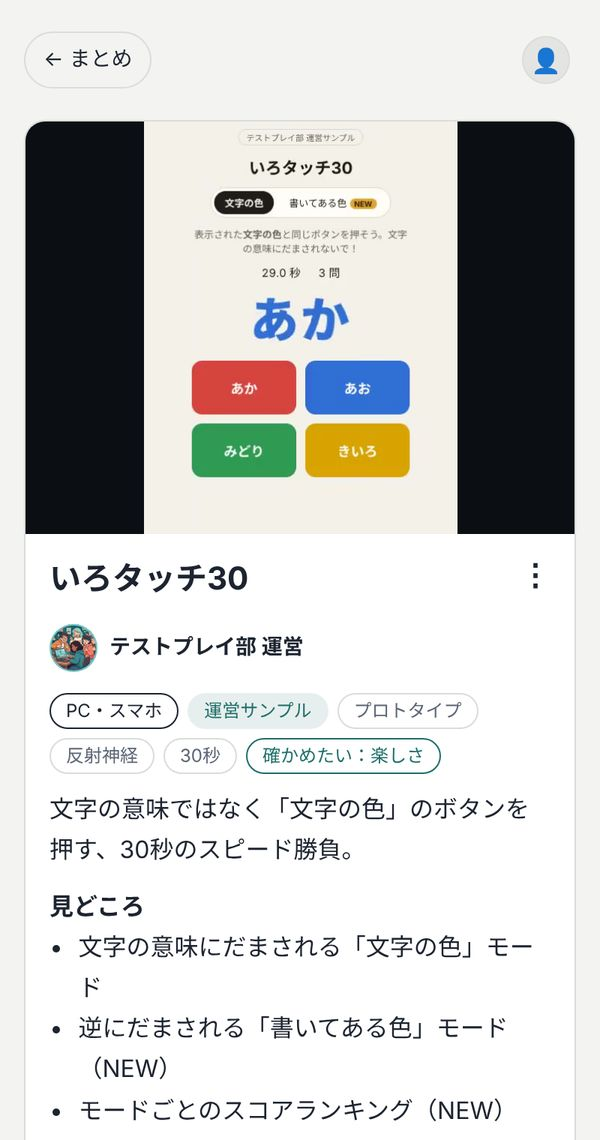
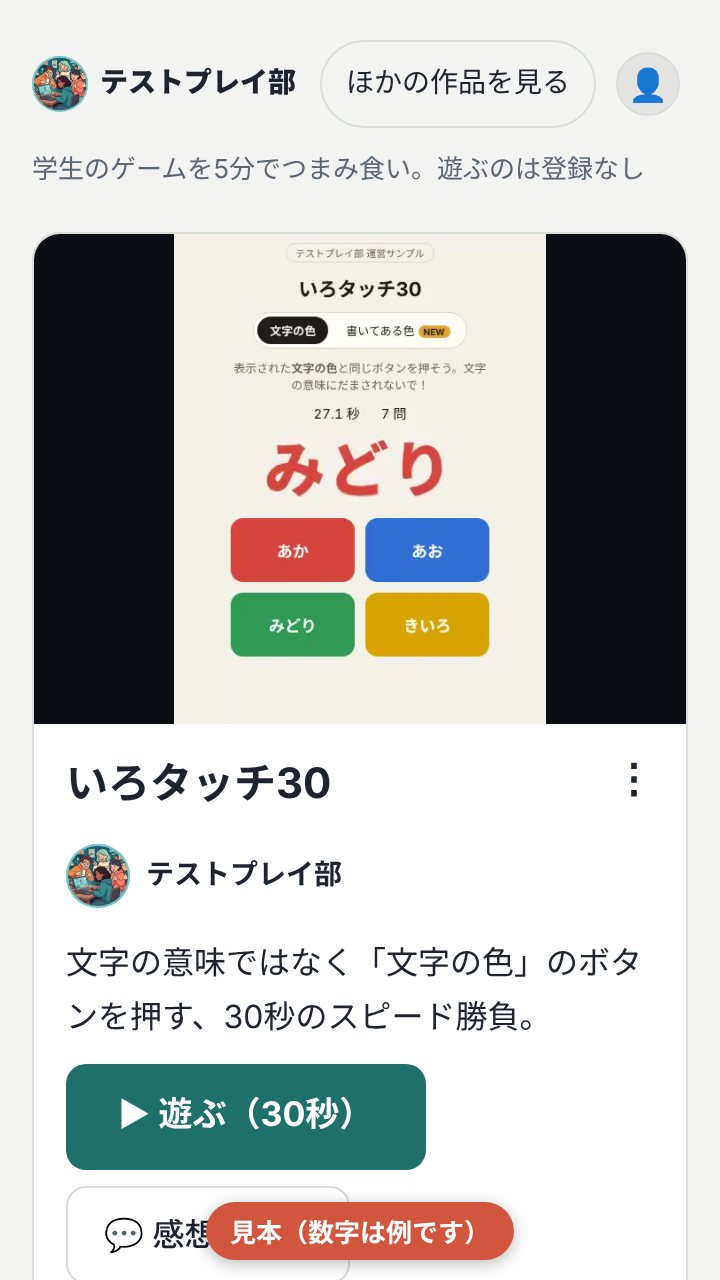
作る人へ：見本画像を撮り直し、タップで大きく見られるようにする
- 偽のログインとモックの数字で、作品ページ・プロフィール・開発者ページを撮り直し（画像に「見本（数字は例です）」を入れた）
- 見本画像をタップ（クリック）で拡大。Esc・タップで閉じる。じっさいのページへのリンクは見出しの下に分けた
- 狭い画面で作品ページのロゴが右のリンクに重なるのを直した

Claude-Session: https://claude.ai/code/session_01ASZHxia5FHQcgiMYRoMffe

diff --git a/creators.html b/creators.html
@@ -60,9 +60,9 @@
 </ul>
 <p class="muted">例：<a href="./games/color/">いろタッチ30の作品ページ</a>（もらった感想で直した記録つき）</p>
 <div class="shots">
-<figure><a href="./games/color/"><img src="assets/guide/game.jpg" alt="作品ページの例。動画、作った人、確かめたいこと、遊ぶボタンが並んでいる" loading="lazy" width="600" height="1140"></a><figcaption>作品ページ（じっさいの画面）</figcaption></figure>
-<figure><a href="./profile.html?u=unei"><img src="assets/guide/profile.jpg" alt="プロフィールの例。アイコン、名前、ひとこと、リンク、作品の一覧" loading="lazy" width="600" height="1140"></a><figcaption>プロフィール（じっさいの画面）</figcaption></figure>
-<figure class="widefig"><img src="assets/guide/dev.jpg" alt="開発者ページの見本。遊んだ人、遊んだ時間、どこで離れたか、感想の内わけがグラフで並ぶ" loading="lazy" width="1000" height="760"><figcaption>開発者ページ（見本。数字は例です）— 遊んだ人の数、どこで離れたか、感想が見られる</figcaption></figure>
+<figure><button type="button" class="zoomb" aria-label="作品ページの見本を大きく見る"><img src="assets/guide/game.jpg" alt="作品ページの見本。動画、作った人、確かめたいこと、遊ぶボタンが並んでいる" loading="lazy" width="720" height="1280"></button><figcaption>作品ページ（見本・数字は例です）<br><a href="./games/color/">じっさいのページを見る</a></figcaption></figure>
+<figure><button type="button" class="zoomb" aria-label="プロフィールの見本を大きく見る"><img src="assets/guide/profile.jpg" alt="プロフィールの見本。アイコン、名前、ひとこと、リンク、作品の一覧" loading="lazy" width="720" height="1280"></button><figcaption>プロフィール（見本・数字は例です）<br><a href="./profile.html?u=unei">じっさいのページを見る</a></figcaption></figure>
+<figure class="widefig"><button type="button" class="zoomb" aria-label="開発者ページの見本を大きく見る"><img src="assets/guide/dev.jpg" alt="開発者ページの見本。遊んだ人、遊んだ時間、どこで離れたか、感想の内わけがグラフで並ぶ" loading="lazy" width="1000" height="760"></button><figcaption>開発者ページ（見本・数字は例です）。遊んだ人の数、どこで離れたか、感想が見られます。タップで大きく見られます</figcaption></figure>
 </div>
 </div></section>
 
@@ -154,7 +154,19 @@
 .shots img{width:100%;height:auto;border-radius:10px;border:1px solid var(--line);display:block}
 .shots figcaption{font-size:12px;color:var(--muted)}
 .shots .widefig{grid-column:1/-1}
+.zoomb{border:0;padding:0;background:none;cursor:zoom-in;display:block;width:100%}
+.zoomv{position:fixed;inset:0;z-index:100;background:#000d;overflow:auto;display:grid;place-items:start center;padding:12px;cursor:zoom-out}
+.zoomv img{width:min(1000px,100%);min-width:min(100%,640px);height:auto;border-radius:10px}
 </style>
+<script>
+(function(){var v=null,last=null;
+ function close(){if(v){v.remove();v=null;if(last)last.focus()}}
+ document.addEventListener('click',function(e){var b=e.target.closest&&e.target.closest('.zoomb');if(!b)return;last=b;
+  v=document.createElement('div');v.className='zoomv';v.setAttribute('role','dialog');v.setAttribute('aria-label','見本を大きく見る（タップで閉じる）');v.tabIndex=-1;
+  var im=b.querySelector('img').cloneNode();im.removeAttribute('loading');v.append(im);v.onclick=close;document.body.append(v);v.focus()});
+ document.addEventListener('keydown',function(e){if(e.key==='Escape')close()});
+})();
+</script>
 <script>
 (function(){var d=document.getElementById('urlFold');if(!d)return;
  function openIf(){if(location.hash==='#url'){d.open=true;d.scrollIntoView()}}

diff --git a/assets/style.css b/assets/style.css
@@ -16,6 +16,7 @@ header p{margin:4px 0 0;color:var(--muted)}
 .bar .btn{padding:7px 14px;font-size:14px;min-height:44px;align-items:center}
 .bar-r{display:flex;gap:8px;align-items:center;flex:none}
 .brand,.ghost-link,.bar .btn{white-space:nowrap}
+.brand{overflow:hidden}
 @media (max-width:480px){.hide-sm{display:none!important}}
 @media (max-width:420px){.bar,.bar-r{gap:6px}.brand{font-size:14px;gap:6px;letter-spacing:0}.brand img{width:28px;height:28px}.ghost-link,.bar .btn{padding:6px 8px;font-size:12px}.tabs{gap:0}.tabs button{flex:0 0 auto;padding:10px 6px;font-size:13px}}
 .ghost-link{color:var(--ink);font-size:14px;text-decoration:none;border:1px solid var(--line);border-radius:999px;padding:6px 12px;min-height:44px;display:inline-flex;align-items:center}

diff --git a/build.py b/build.py
@@ -237,6 +237,7 @@ header p{margin:4px 0 0;color:var(--muted)}
 .bar .btn{padding:7px 14px;font-size:14px;min-height:44px;align-items:center}
 .bar-r{display:flex;gap:8px;align-items:center;flex:none}
 .brand,.ghost-link,.bar .btn{white-space:nowrap}
+.brand{overflow:hidden}
 @media (max-width:480px){.hide-sm{display:none!important}}
 @media (max-width:420px){.bar,.bar-r{gap:6px}.brand{font-size:14px;gap:6px;letter-spacing:0}.brand img{width:28px;height:28px}.ghost-link,.bar .btn{padding:6px 8px;font-size:12px}.tabs{gap:0}.tabs button{flex:0 0 auto;padding:10px 6px;font-size:13px}}
 .ghost-link{color:var(--ink);font-size:14px;text-decoration:none;border:1px solid var(--line);border-radius:999px;padding:6px 12px;min-height:44px;display:inline-flex;align-items:center}
@@ -570,9 +571,9 @@ document.querySelectorAll('.filters button').forEach(b=>b.addEventListener('clic
 </ul>
 <p class="muted">例：{sample_link}（もらった感想で直した記録つき）</p>
 <div class="shots">
-<figure><a href="./games/{e(sample["slug"]) if sample else ""}/"><img src="assets/guide/game.jpg" alt="作品ページの例。動画、作った人、確かめたいこと、遊ぶボタンが並んでいる" loading="lazy" width="600" height="1140"></a><figcaption>作品ページ（じっさいの画面）</figcaption></figure>
-<figure><a href="./profile.html?u=unei"><img src="assets/guide/profile.jpg" alt="プロフィールの例。アイコン、名前、ひとこと、リンク、作品の一覧" loading="lazy" width="600" height="1140"></a><figcaption>プロフィール（じっさいの画面）</figcaption></figure>
-<figure class="widefig"><img src="assets/guide/dev.jpg" alt="開発者ページの見本。遊んだ人、遊んだ時間、どこで離れたか、感想の内わけがグラフで並ぶ" loading="lazy" width="1000" height="760"><figcaption>開発者ページ（見本。数字は例です）— 遊んだ人の数、どこで離れたか、感想が見られる</figcaption></figure>
+<figure><button type="button" class="zoomb" aria-label="作品ページの見本を大きく見る"><img src="assets/guide/game.jpg" alt="作品ページの見本。動画、作った人、確かめたいこと、遊ぶボタンが並んでいる" loading="lazy" width="720" height="1280"></button><figcaption>作品ページ（見本・数字は例です）<br><a href="./games/{e(sample["slug"]) if sample else ""}/">じっさいのページを見る</a></figcaption></figure>
+<figure><button type="button" class="zoomb" aria-label="プロフィールの見本を大きく見る"><img src="assets/guide/profile.jpg" alt="プロフィールの見本。アイコン、名前、ひとこと、リンク、作品の一覧" loading="lazy" width="720" height="1280"></button><figcaption>プロフィール（見本・数字は例です）<br><a href="./profile.html?u=unei">じっさいのページを見る</a></figcaption></figure>
+<figure class="widefig"><button type="button" class="zoomb" aria-label="開発者ページの見本を大きく見る"><img src="assets/guide/dev.jpg" alt="開発者ページの見本。遊んだ人、遊んだ時間、どこで離れたか、感想の内わけがグラフで並ぶ" loading="lazy" width="1000" height="760"></button><figcaption>開発者ページ（見本・数字は例です）。遊んだ人の数、どこで離れたか、感想が見られます。タップで大きく見られます</figcaption></figure>
 </div>
 </div></section>
 
@@ -664,7 +665,19 @@ document.querySelectorAll('.filters button').forEach(b=>b.addEventListener('clic
 .shots img{{width:100%;height:auto;border-radius:10px;border:1px solid var(--line);display:block}}
 .shots figcaption{{font-size:12px;color:var(--muted)}}
 .shots .widefig{{grid-column:1/-1}}
+.zoomb{{border:0;padding:0;background:none;cursor:zoom-in;display:block;width:100%}}
+.zoomv{{position:fixed;inset:0;z-index:100;background:#000d;overflow:auto;display:grid;place-items:start center;padding:12px;cursor:zoom-out}}
+.zoomv img{{width:min(1000px,100%);min-width:min(100%,640px);height:auto;border-radius:10px}}
 </style>
+<script>
+(function(){{var v=null,last=null;
+ function close(){{if(v){{v.remove();v=null;if(last)last.focus()}}}}
+ document.addEventListener('click',function(e){{var b=e.target.closest&&e.target.closest('.zoomb');if(!b)return;last=b;
+  v=document.createElement('div');v.className='zoomv';v.setAttribute('role','dialog');v.setAttribute('aria-label','見本を大きく見る（タップで閉じる）');v.tabIndex=-1;
+  var im=b.querySelector('img').cloneNode();im.removeAttribute('loading');v.append(im);v.onclick=close;document.body.append(v);v.focus()}});
+ document.addEventListener('keydown',function(e){{if(e.key==='Escape')close()}});
+}})();
+</script>
 <script>
 (function(){{var d=document.getElementById('urlFold');if(!d)return;
  function openIf(){{if(location.hash==='#url'){{d.open=true;d.scrollIntoView()}}}}
